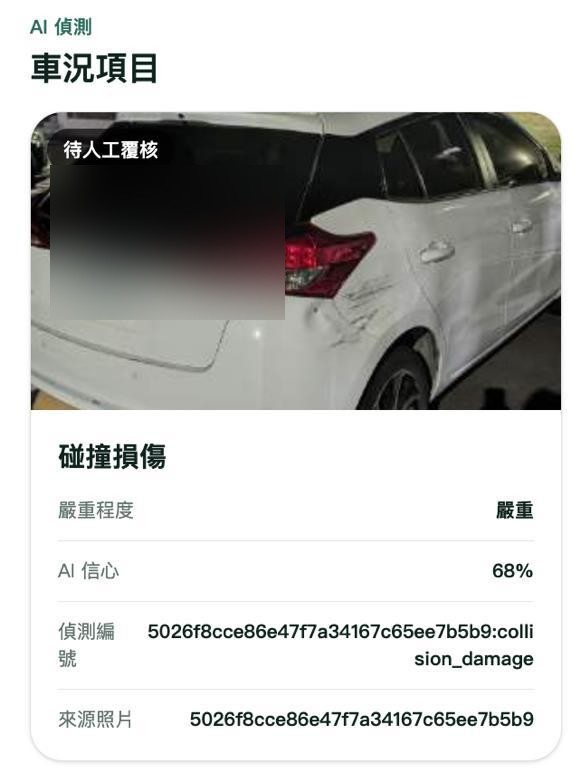
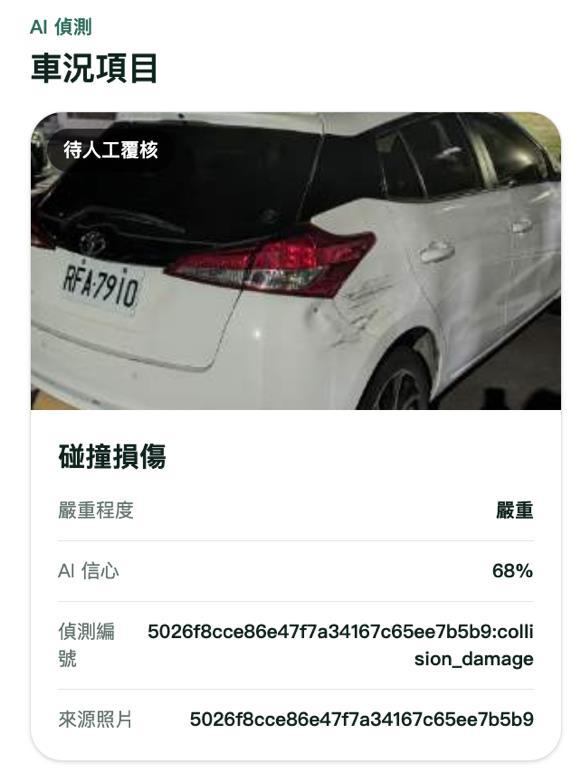
doc(md): 2st 語句潤飾，照片調整

Changed region(s): [[0.062, 0.2794, 0.4957, 0.4347], [0.062, 0.2173, 0.1239, 0.2484]]

diff --git a/docs/EVALUATION.md b/docs/EVALUATION.md
@@ -34,7 +34,7 @@
 | Validation | 17 | 4 positive / 13 negative |
 | Locked test | 21 | 5 positive / 16 negative |
 
-原始案件資料夾名稱不作單張照片真值，因為索賠案件中的每張照片不一定都拍到損傷。
+和泰原始資料是依「案件是否索賠」分類，但同一案件中的照片不一定每張都拍到損傷。因此，我們沒有直接把資料夾名稱當成每張照片的答案，而是逐張人工確認照片中是否有可見損傷。
 
 ### 2.2 和泰 validation
 
